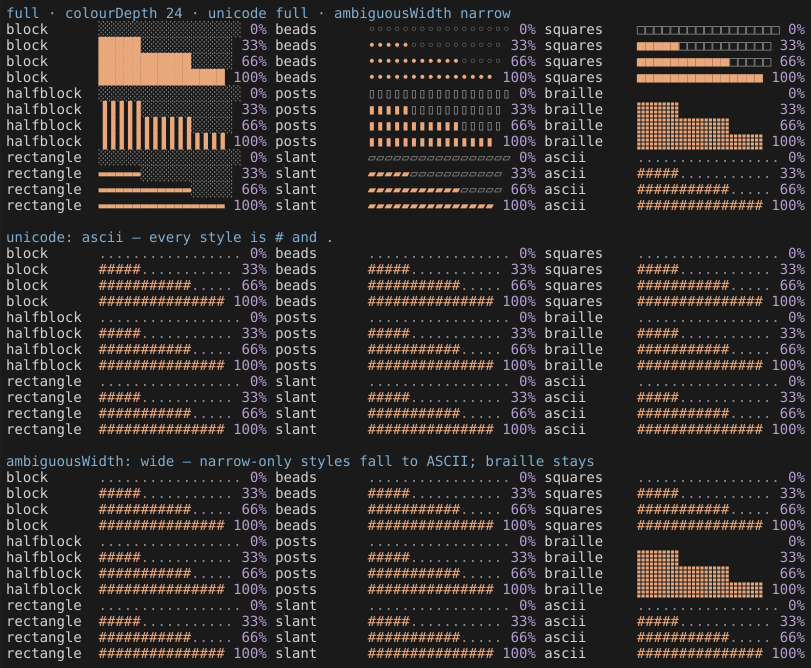
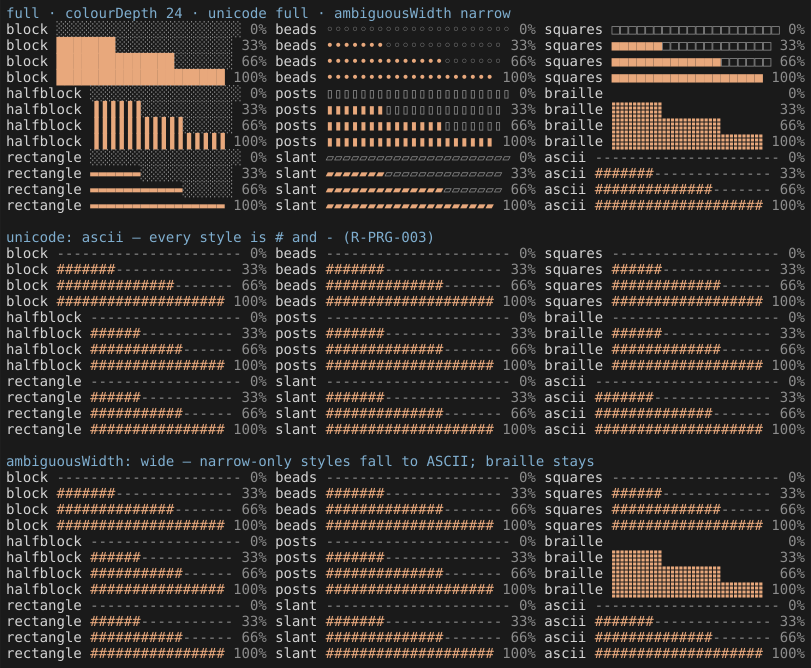
C09 I112 built — a spinner steps at its own interval
`tick` now counts 80 ms `TICK_MS` ticks and every renderer that draws a
spinner steps through `spinnerFrameAt`, which advances a set only when its
own `intervalMs` has elapsed. The session counts elapsed wake time in
`TICK_MS` rather than wakes. Before this, `agent` walked at the wake's 80 ms
where its interval says 120, and every set on a shared screen strobed at
the fastest one's rate (parked 30's strobe).

Tests: T1.78 (the frame reads the set's interval), T1.79 (every kind drawing
a non-default set draws the helper's frame — specified from a surviving
renderer-bypass mutation), T2.175 (no set is faster than the tick), T4.17v
(an agent-only screen and a braille control both count 15 after 1200 ms).

Mutation: c09-spinner-interval 5/5 caught. Re-anchored and green: c09-status
8, c09-status-parts 7, c09-stream-trail 23 + 1 expected survivor, c22-camera 15.

Golden: no movers, as predicted. Media movers, both explained:
- spinner-sets.gif: plays at TICK_MS, not 100 ms, for the longest cycle (123
  ticks, agent's) — the capture said "forty ticks, the longest is decimal at
  10", false since agent's 82 frames joined. Length is now computed.
- bar-styles.png: stale since M2, no gate covers a PNG. ASCII empty cell is
  `-` per R-PRG-003, and the caption said `# and .`.

Gates: enforce 0; test 0 (6543 passed, 10 todo); golden 0 (544); e2e 0
(136 passed, 3 todo). The first e2e attempt was lost to the Docker daemon
[…]

diff --git a/test/contract/spinners.test.ts b/test/contract/spinners.test.ts
@@ -8,7 +8,7 @@
 
 import { describe, expect, it } from "vitest";
 
-import { FREE_WIDTH_SLOTS, glyphs, spinnerFrames, spinnerIntervalMs } from "../../src/presentation/blocks/index.js";
+import { FREE_WIDTH_SLOTS, glyphs, spinnerFrameAt, spinnerFrames, spinnerIntervalMs, TICK_MS } from "../../src/presentation/blocks/index.js";
 // **The table itself is not on the barrel**, and MG24 is why: its members have
 // no reader in `src/` — the two functions are the seam. Imported from the module
 // so the rows can walk every set rather than a list they keep themselves, which
@@ -22,7 +22,7 @@ import { spinnerSetNames } from "../../src/presentation/blocks/glyphs.js";
 import { loadRegistry, spinnerAsciiFrames } from "../../docs/design/language/build-calcium.mjs";
 import type { Registry } from "../../docs/design/language/build-calcium.mjs";
 import { cells, hasEmojiForm } from "../../src/presentation/text.js";
-import { ASCII_CAPS, DARK_THEME, FULL_CAPS, MONO_UNICODE_CAPS, registry } from "../support/render.js";
+import { ASCII_CAPS, DARK_THEME, FULL_CAPS, MONO_UNICODE_CAPS, measurable, registry, visible } from "../support/render.js";
 // C09 I99's three rows: the preference, the two resolvers it drives, and the
 // union the ambient set partitions.
 import type { Block } from "../../src/data/viewmodel/index.js";
@@ -587,6 +587,69 @@ const STATED_CYCLES: Readonly<Record<string, number>> = Object.freeze(
 });
 
 describe("C09 I112 — a spinner steps at its own set's interval", () => {
-  it.todo("T1.78 (C09 I112, §039): at one tick, agent and the default set take their own frames — not deferred on a component: specified before the index reads the interval");
-  it.todo("T1.79 (C09 I112): every kind drawing a non-default set draws spinnerFrameAt's frame — not deferred on a component: specified after a renderer bypass survived the mutation pass");
+  it("T1.78 (C09 I112, §039): at one tick, agent and the default set take their own frames", () => {
+    const caps = { unicode: "full" as const, ambiguousWidth: "narrow" as const };
+    const at = (tick: number, name?: string) => spinnerFrameAt(caps, tick, name);
+    const def = spinnerFrames(caps);
+    const agent = spinnerFrames(caps, "agent");
+    expect(spinnerIntervalMs(), "the default set is the unit").toBe(TICK_MS);
+    expect(spinnerIntervalMs("agent")).toBe(120);
+
+    // At tick 3 — 240 ms — the default set is on frame 3 and `agent` on frame 2.
+    expect(at(3)).toBe(def[3]);
+    expect(at(3, "agent")).toBe(agent[2]);
+
+    // **Over thirty ticks `agent` changes twenty times**, its own 120 ms, and the
+    // default set thirty. The old index changed both on every tick.
+    const changes = (name?: string) =>
+      Array.from({ length: 30 }, (_, t) => at(t + 1, name) !== at(t, name)).filter(Boolean).length;
+    expect(changes(), "the default set, every tick").toBe(30);
+    expect(changes("agent"), "agent, at its own interval").toBe(20);
+  });
+
+  it("T1.79 (C09 I112): every kind drawing a non-default set draws spinnerFrameAt's frame", () => {
+    const caps = FULL_CAPS;
+    const TICKS = Array.from({ length: 12 }, (_, t) => t);
+    const drawn = (block: unknown, tick: number): string =>
+      visible(measurable({ capabilities: caps, tick }).renderToLines(block as never, 40).join("\n"));
+
+    // **Each site's frame, read out of the frame it draws** rather than asked of
+    // the helper, which is what T1.78 already does. Twelve ticks is a whole
+    // `agent` step pattern (2 of every 3) and more than an `arc` cycle.
+    const sites: readonly (readonly [string, unknown, string, (text: string) => string])[] = [
+      [
+        "a streaming notice's mark",
+        { kind: "notice", id: "n", tone: "default", text: "streaming", streaming: true },
+        "agent",
+        (text) => text.trimEnd().slice(-1),
+      ],
+      [
+        "a loading status declaring arc",
+        { kind: "status", id: "s", state: "loading", message: "fetching", height: 7, spinner: "arc" },
+        "arc",
+        (text) => /(\S) loading/u.exec(text)?.[1] ?? "",
+      ],
+      [
+        "a tape's running member",
+        { kind: "tape", id: "t", members: [{ id: "a", label: "build", state: "running" }], current: "a" },
+        "agent",
+        (text) => /build (\S)/u.exec(text)?.[1] ?? "",
+      ],
+    ];
+    for (const [site, block, set, read] of sites) {
+      const seen = TICKS.map((t) => read(drawn(block, t)));
+      expect(seen.every((f) => f !== ""), `${site} draws a frame at every tick`).toBe(true);
+      expect(seen, site).toEqual(TICKS.map((t) => spinnerFrameAt(caps, t, set)));
+      // **And the set's own rate is visible in it**: over twelve ticks the old
+      // index changed the frame twelve times; these sets are slower than the unit.
+      const changes = seen.slice(1).filter((f, i) => f !== seen[i]).length;
+      expect(changes, `${site} steps slower than the tick`).toBeLessThan(TICKS.length - 1);
+    }
+  });
+
+  it("T2.175 (C09 I112): no set is faster than the tick, so none skips a frame", () => {
+    for (const name of spinnerSetNames()) {
+      expect(spinnerIntervalMs(name), name).toBeGreaterThanOrEqual(TICK_MS);
+    }
+  });
 });

diff --git a/src/presentation/blocks/kinds/status.ts b/src/presentation/blocks/kinds/status.ts
@@ -16,7 +16,7 @@
 import { normaliseWidth } from "../../../data/viewmodel/index.js";
 import type { Status } from "../../../data/viewmodel/index.js";
 import { cells, stripControl, truncate, wrapCells } from "../../text.js";
-import { glyphs, spinnerFrames } from "../glyphs.js";
+import { glyphs, spinnerFrameAt, spinnerFrames } from "../glyphs.js";
 import { background, fit, paint, rows, slot as surface, tone, withBackground, type Span } from "../paint.js";
 import type { BlockDefinition, RenderContext, Rendered } from "../types.js";
 import type { Style } from "../../theme/index.js";
@@ -208,8 +208,7 @@ export function elapsed(ms: number): string {
  * the history. Below one second `loading` shows no counter, because a fast load
  * must not flash one.
  */
-export function activityLine(block: Status, frames: readonly string[], tick: number): string {
-  const mark = frames[tick % frames.length] ?? ""; // cells-ok — a frame count, not a width
+export function activityLine(block: Status, mark: string): string {
   if (block.state === "retrying") {
     if (block.retryInMs === undefined) return "";
     // **Parentheses rather than a middle dot, and T4.4 is what said so.** `·` has
@@ -440,7 +439,7 @@ export function statusRowsFor(
   const mark = block.state === "error" || block.state === "retrying" ? `${g.warning} ` : "";
   // Tick zero: the *emptiness* of the line is a function of the state and the
   // fields, never of which frame the spinner is on, so any tick answers it.
-  const line = activityLine(block, spinnerFrames(caps, block.spinner), 0);
+  const line = activityLine(block, spinnerFrames(caps, block.spinner)[0] ?? "");
 
   const wrapped = wrapCells(`${mark}${stripControl(block.message)}`, textWidth).length; // cells-ok — a row count
   // **The message is served first and has no cap of its own** (I84). What is
@@ -521,9 +520,9 @@ export const statusDefinition: BlockDefinition<Status> = {
     // **The block's set, and `spinnerFrames` resolves an unknown name to the
     // default rather than throwing** — a spinner is decoration, and a session
     // that will not start because a set was misspelt is worse than one that
-    // spins the wrong way. The interval is `spinnerIntervalMs(block.spinner)`
-    // and belongs to whoever schedules the tick, which is not this layer.
-    const line = activityLine(block, spinnerFrames(ctx.capabilities, block.spinner), glyphTick(ctx.tick, ctx.motion));
+    // spins the wrong way. **The set's own interval is read here** (C09 I112):
+    // the tick is time, and `spinnerFrameAt` turns it into this set's frame.
+    const line = activityLine(block, spinnerFrameAt(ctx.capabilities, glyphTick(ctx.tick, ctx.motion), block.spinner));
 
     // **The interior is the remainder and the group is centred inside it.** The
     // height ladder says which furniture it can afford and the width ladder

diff --git a/src/shell/session.ts b/src/shell/session.ts
@@ -43,7 +43,7 @@ import { descendants } from "../data/viewmodel/index.js";
 import type { Block, Image, Plot } from "../data/viewmodel/index.js";
 import { blockSpansOfEntry, elementsOfEntry, entryLayout, renderEntryPieces, windowEntry } from "./entry-layout.js";
 import { washedRowsOf, washSelectedRows } from "./paint.js";
-import { animationIntervalOf } from "../presentation/blocks/index.js";
+import { animationIntervalOf, TICK_MS } from "../presentation/blocks/index.js";
 import { isBand } from "../presentation/blocks/paint.js";
 import type { EntryParts } from "./render-cache.js";
 import type { EntryPiece } from "./entry-layout.js";
@@ -1242,11 +1242,17 @@ class Session implements TuiInstance {
     // would lose a fraction of an interval on every wake and run it slow.
     // Advancing the stamp by the steps consumed keeps it exact, and zero steps is
     // a wake the spinner was not the reason for.
+    //
+    // **In `TICK_MS` and not in `spinnerMs`** (C09 I112). The counter is time, and
+    // each set turns it into its own frame; counted in the fastest interval on
+    // screen, every set took that set's rate — `agent` at 120 ms stepped every 80
+    // beside a braille spinner. The wake is still armed at `spinnerMs`, which is
+    // when something on screen can next change.
     if (spinnerMs !== null) {
-      const steps = Math.floor((now - (this.#tickAt ?? now)) / spinnerMs);
+      const steps = Math.floor((now - (this.#tickAt ?? now)) / TICK_MS);
       if (steps > 0) {
         this.#tick += steps;
-        this.#tickAt = (this.#tickAt ?? now) + steps * spinnerMs;
+        this.#tickAt = (this.#tickAt ?? now) + steps * TICK_MS;
       }
     }
 

diff --git a/src/presentation/blocks/kinds/structured.ts b/src/presentation/blocks/kinds/structured.ts
@@ -13,7 +13,7 @@ import type { AmbiguousWidth } from "../../text.js";
 import { atLeastOne, normaliseWidth } from "../../../data/viewmodel/index.js";
 import type { Comparison, Events, Glyph, KeyValue, Logs, Steps, Tone } from "../../../data/viewmodel/index.js";
 import { cells, stripControl, truncate } from "../../text.js";
-import { glyphFor, glyphs, spinnerFrames } from "../glyphs.js";
+import { glyphFor, glyphs, spinnerFrameAt } from "../glyphs.js";
 import { valueBar } from "../../plot/bar.js";
 import { clampSpans, pad, paint, rows, tone, type Span } from "../paint.js";
 import { naturalSpan, shedRow } from "../shed.js";
@@ -875,7 +875,6 @@ export const stepsDefinition: BlockDefinition<Steps> = {
   render(block: Steps, ctx: RenderContext): Rendered {
     ctx.probe?.gauge("steps.steps", block.steps.length); // cells-ok — a count of items, not a display width
     const g = glyphs(ctx.capabilities);
-    const frames = spinnerFrames(ctx.capabilities);
     const width = normaliseWidth(ctx.width);
     const ambiguous = ctx.capabilities.ambiguousWidth;
     // **Uncapped, for `events`' reason.** Half the row was this kind's guard
@@ -940,7 +939,7 @@ export const stepsDefinition: BlockDefinition<Steps> = {
         // never shifts the row it sits on.
         const marker =
           step.state === "active"
-            ? (frames[glyphTick(ctx.tick, ctx.motion) % frames.length] ?? g.dotted) // cells-ok
+            ? spinnerFrameAt(ctx.capabilities, glyphTick(ctx.tick, ctx.motion)) || g.dotted
             : step.state === "done"
               ? g.tick
               : step.state === "failed"

diff --git a/test/integration/orbit-wiring.test.ts b/test/integration/orbit-wiring.test.ts
@@ -318,7 +318,32 @@ describe("C22 §6i — the ticker is the second writer", () => {
     }
   });
 
-  it.todo("T4.17v (C22 I74, C09 I112): the counter is elapsed time over 80 ms, whatever the wake — not deferred on a component: specified before the session counts in TICK_MS");
+  it("T4.17v (C22 I74, C09 I112): the counter is elapsed time over 80 ms, whatever the wake", async () => {
+    vi.useFakeTimers();
+    try {
+      const SPAN = 1200;
+      // A streaming notice draws the `agent` mark, a 120 ms set, and nothing
+      // else on screen animates — so the wake is armed at 120.
+      const HEAD = { kind: "notice", id: "n", tone: "default", text: "streaming", streaming: true };
+
+      const a = watching();
+      const ba = await session(a.definition, [{ kind: "count", id: "c" }, HEAD]);
+      const a0 = a.ticks().at(-1) ?? 0;
+      await pass(ba, SPAN);
+
+      // **The control: a braille spinner beside it**, whose 80 ms wake is the
+      // unit — so the two arms agree only if the counter is time and not wakes.
+      const b = watching();
+      const bb = await session(b.definition, [{ kind: "count", id: "c" }, HEAD, SPINNER]);
+      const b0 = b.ticks().at(-1) ?? 0;
+      await pass(bb, SPAN);
+
+      expect((b.ticks().at(-1) ?? 0) - b0, "beside an 80 ms spinner").toBe(SPAN / 80);
+      expect((a.ticks().at(-1) ?? 0) - a0, "and with the 120 ms mark alone").toBe(SPAN / 80);
+    } finally {
+      vi.useRealTimers();
+    }
+  });
 
   it("T4.17j (C22 I73): a live orbit draws at the stream rate and a spinner at the spinner's", async () => {
     vi.useFakeTimers();

diff --git a/src/presentation/blocks/kinds/tape.ts b/src/presentation/blocks/kinds/tape.ts
@@ -7,7 +7,7 @@
 import type { CallState, Tape } from "../../../data/viewmodel/index.js";
 import { atLeastOne, normaliseWidth } from "../../../data/viewmodel/index.js";
 import { cells, stripControl, truncate } from "../../text.js";
-import { CALL_STATE_GLYPH, glyphFor, glyphs, spinnerFrames } from "../glyphs.js";
+import { CALL_STATE_GLYPH, glyphFor, glyphs, spinnerFrameAt } from "../glyphs.js";
 import { clampSpans, focusStyle, paint, rows, selectionStyle, tone, type Span } from "../paint.js";
 import { tapeWindow, type TapeMarks } from "../tape-window.js";
 import type { BlockDefinition, NavElement, RenderContext, Rendered } from "../types.js";
@@ -27,12 +27,6 @@ const LEAD_CELLS = 2;
 const TAPE_SPINNER = "agent";
 
 type Member = Tape["members"][number];
-
-/** The frame this tick shows — the index arithmetic every spinner does (C09 §4). */
-function frameAt(frames: readonly string[], tick: number): string {
-  const count = frames.length; // cells-ok — a count of frames
-  return count === 0 ? "" : (frames[tick % count] ?? "");
-}
 
 /**
  * A member's text at a given rung of the ladder.
@@ -60,7 +54,7 @@ function memberText(
     slot === undefined
       ? ""
       : running
-        ? frameAt(spinnerFrames(ctx.capabilities, TAPE_SPINNER), glyphTick(ctx.tick, ctx.motion))
+        ? spinnerFrameAt(ctx.capabilities, glyphTick(ctx.tick, ctx.motion), TAPE_SPINNER)
         : glyphFor(slot, ctx.capabilities);
   const shown = detail ? stripControl(member.detail ?? "") : "";
   const tail = running ? [mark, shown] : [shown, mark];

diff --git a/src/presentation/blocks/kinds/containers.ts b/src/presentation/blocks/kinds/containers.ts
@@ -25,7 +25,7 @@ import type { Block, CopyFn, Group, MeasureFn, Mosaic, MosaicRect, Panel, Scroll
 import { axesOf, groupPlacements, mosaicRects, parseAreas } from "../../../data/viewmodel/index.js";
 import type { NavElement } from "../types.js";
 import { cells, sliceCells, stripControl, truncate } from "../../text.js";
-import { SPINNER_CELLS, glyphs, scrollbarSet, spinnerFrames } from "../glyphs.js";
+import { SPINNER_CELLS, glyphs, scrollbarSet, spinnerFrameAt } from "../glyphs.js";
 import { scrollbarColumn } from "../scrollbar.js";
 import { based, clampSpans, groundSequence, paint, rows, tone } from "../paint.js";
 import { composeRow, fitRow, placeRows, rowCells, type Placed } from "../../rows.js";
@@ -172,10 +172,9 @@ export const panelDefinition: BlockDefinition<Panel> = {
     // is untouched and a panel is still children + 2. Every frame of every set
     // is one cell at both alphabets (T2.75, T2.70), so the title does not
     // change width as it animates and `measure` never sees the tick (I8).
-    const frames = spinnerFrames(ctx.capabilities);
     const titlePart = railPart(
       block.live === true
-        ? `${frames[glyphTick(ctx.tick, ctx.motion) % frames.length] ?? g.dotted} ${stripControl(block.title)}`.trimEnd() // cells-ok — a frame index
+        ? `${spinnerFrameAt(ctx.capabilities, glyphTick(ctx.tick, ctx.motion)) || g.dotted} ${stripControl(block.title)}`.trimEnd()
         : block.title,
       inner - noticeRoom,
     );

diff --git a/src/presentation/blocks/kinds/simple.ts b/src/presentation/blocks/kinds/simple.ts
@@ -14,7 +14,7 @@ import type { Run } from "../../runs.js";
 import { runLines, runsOf, runsText, sliceRuns, wrapRuns } from "../../runs.js";
 import { NO_STYLE, rampStyle } from "../../theme/index.js";
 import { animateT, effectiveAnimation, effectiveTick, extentT, glyphTick } from "../ramp.js";
-import { barStyle, glyphFor, glyphCells, glyphs, headMark, spinnerFrames } from "../glyphs.js";
+import { barStyle, glyphFor, glyphCells, glyphs, headMark, spinnerFrameAt } from "../glyphs.js";
 import { background, clampSpans, focusStyle, isBand, pad, paint, paintRuns, rows, selectionStyle, slot as surface, tone, withBackground, type Span } from "../paint.js";
 import type { BlockDefinition, NavElement, RenderContext, Windowed, Rendered } from "../types.js";
 
@@ -499,9 +499,8 @@ function headMarked(
   // were reserved, so a change to `markCells` moves the reservation and the draw
   // together — they cannot disagree about which blocks have a head.
   if (markCells(block) === 0) return wrapped;
-  const frames = spinnerFrames(ctx.capabilities, "agent");
-  const frame = frames[glyphTick(ctx.tick, ctx.motion) % frames.length]; // cells-ok — a frame index
-  if (frame === undefined) return wrapped;
+  const frame = spinnerFrameAt(ctx.capabilities, glyphTick(ctx.tick, ctx.motion), "agent");
+  if (frame === "") return wrapped;
   const last = wrapped.length - 1; // cells-ok — an array index
   const line = wrapped[last];
   if (line === undefined) return wrapped;

diff --git a/src/presentation/blocks/glyphs.ts b/src/presentation/blocks/glyphs.ts
@@ -1214,6 +1214,36 @@ export function spinnerIntervalMs(name: string = DEFAULT_SET): number {
   return setFor(name).intervalMs;
 }
 
+/**
+ * The animation time one `ctx.tick` counts, in milliseconds (C09 I112, C22 I74).
+ *
+ * C03's `spinner` window and the fastest shipped interval (F1197), so no set
+ * skips a frame at this resolution — T2.70's interval band holds every set at or
+ * above it.
+ */
+export const TICK_MS = 80;
+
+/**
+ * A set's frame at `tick`, stepping at the **set's own** interval (C09 I112).
+ *
+ * It was `frames[tick % frames.length]` over a counter that advanced once per
+ * the fastest interval on screen, so every set took that set's rate — `agent`
+ * at 120 ms stepped every 80 beside a braille spinner. The tick is time now,
+ * and this is the one place that turns it into a frame. For the default set,
+ * at 80 ms, the index is `tick` exactly.
+ */
+export function spinnerFrameAt(
+  caps: Pick<TerminalCapabilities, "unicode" | "ambiguousWidth">,
+  tick: number,
+  name: string = DEFAULT_SET,
+): string {
+  const frames = spinnerFrames(caps, name);
+  const count = frames.length; // cells-ok — a frame count
+  if (count === 0) return "";
+  const step = Math.floor((tick * TICK_MS) / spinnerIntervalMs(name));
+  return frames[step % count] ?? "";
+}
+
 // --- the `Glyph` vocabulary (C04 §5, C09 §4) --------------------------------
 
 /**

diff --git a/test/unit/animation-proof.test.ts b/test/unit/animation-proof.test.ts
@@ -206,7 +206,7 @@ describe("tools/animation-proof.mjs — the frames it assembles", () => {
 
   it("AP10: the spinner gallery names every set and every set moves", () => {
     // **The set, by equality** (C24 §6): a name the gallery drops leaves every
-    // other row green. And each set's glyph changes across the forty ticks —
+    // other row green. And each set's glyph changes across the capture —
     // the one property a still frame of a spinner cannot show.
     const s = frames["spinner-sets"];
     const first = plain(s?.frames[0] ?? "");

diff --git a/src/presentation/blocks/index.ts b/src/presentation/blocks/index.ts
@@ -21,7 +21,9 @@ export {
   glyphFor,
   glyphCells,
   spinnerFrames,
+  spinnerFrameAt,
   spinnerIntervalMs,
+  TICK_MS,
   spinnerSetNames,
   barStyleNames,
   GLYPH_DOMAINS,

diff --git a/docs/design/PARKED_QUESTIONS.md b/docs/design/PARKED_QUESTIONS.md
@@ -694,7 +694,7 @@ kinds of twenty-five, or a linear stream with no settled line, is the frame with
 nothing in it — and it would be read as coverage.
 ---
 
-> **Ruled 2026-09-24.** `R-MOT-011` applies **per rung**: sets that collapse to one ASCII alphabet share an interval at that rung. **Owed.** **Premise note, 2026-09-25:** the ruling says the sets share an interval and not which, and the registry records none — `|/-\` is at 80, 90, 100, 110, 120, 120, 130, 140 and 140 ms across nine sets. Choosing one is a visible timing value, so the choice is parked as **40**. The strobe the entry named as *a defect either way* is specified as C09 I112 and C22 I74's amendment.
+> **Ruled 2026-09-24.** `R-MOT-011` applies **per rung**: sets that collapse to one ASCII alphabet share an interval at that rung. **Owed.** **Premise note, 2026-09-25:** the ruling says the sets share an interval and not which, and the registry records none — `|/-\` is at 80, 90, 100, 110, 120, 120, 130, 140 and 140 ms across nine sets. Choosing one is a visible timing value, so the choice is parked as **40**. The strobe the entry named as *a defect either way* is specified as C09 I112 and C22 I74's amendment. **Strobe built 2026-09-25:** `tick` counts 80 ms `TICK_MS` ticks and every renderer steps through `spinnerFrameAt`, so `agent` walks at its 120 ms rather than the wake's 80 (T1.78, T1.79, T2.175, T4.17v). The interval half waits on 40.
 
 **30 · RULED — The registry gives one ASCII alphabet to sets at different intervals, and
 `R-MOT-011` says a shared alphabet shares an interval.** §039: *SETS THAT SHARE
